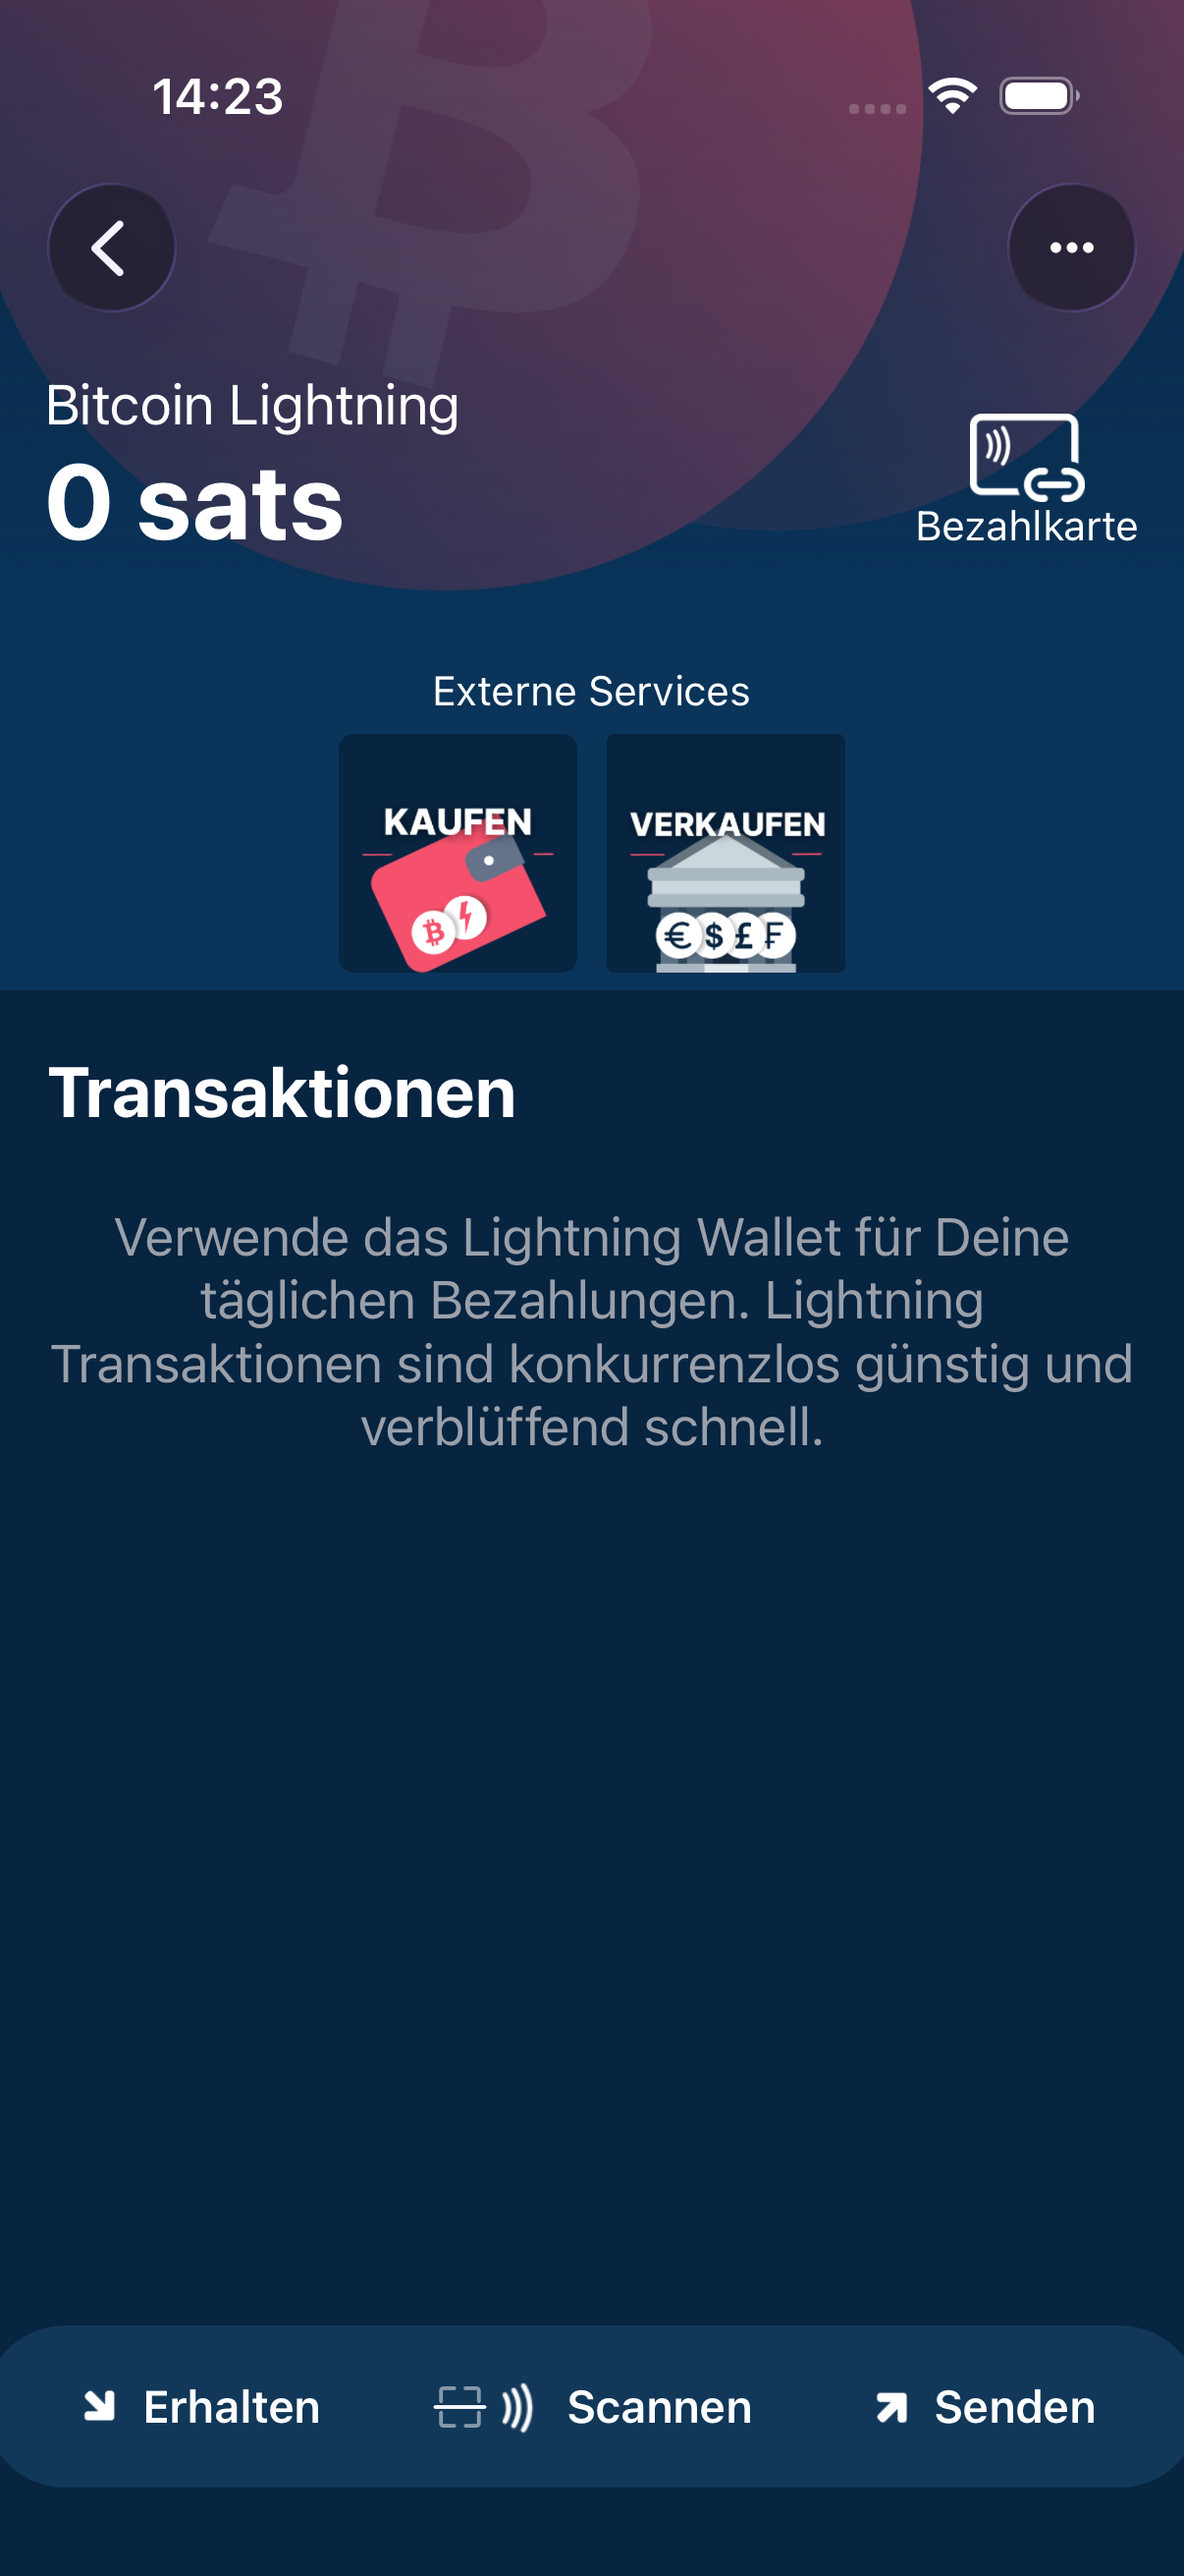
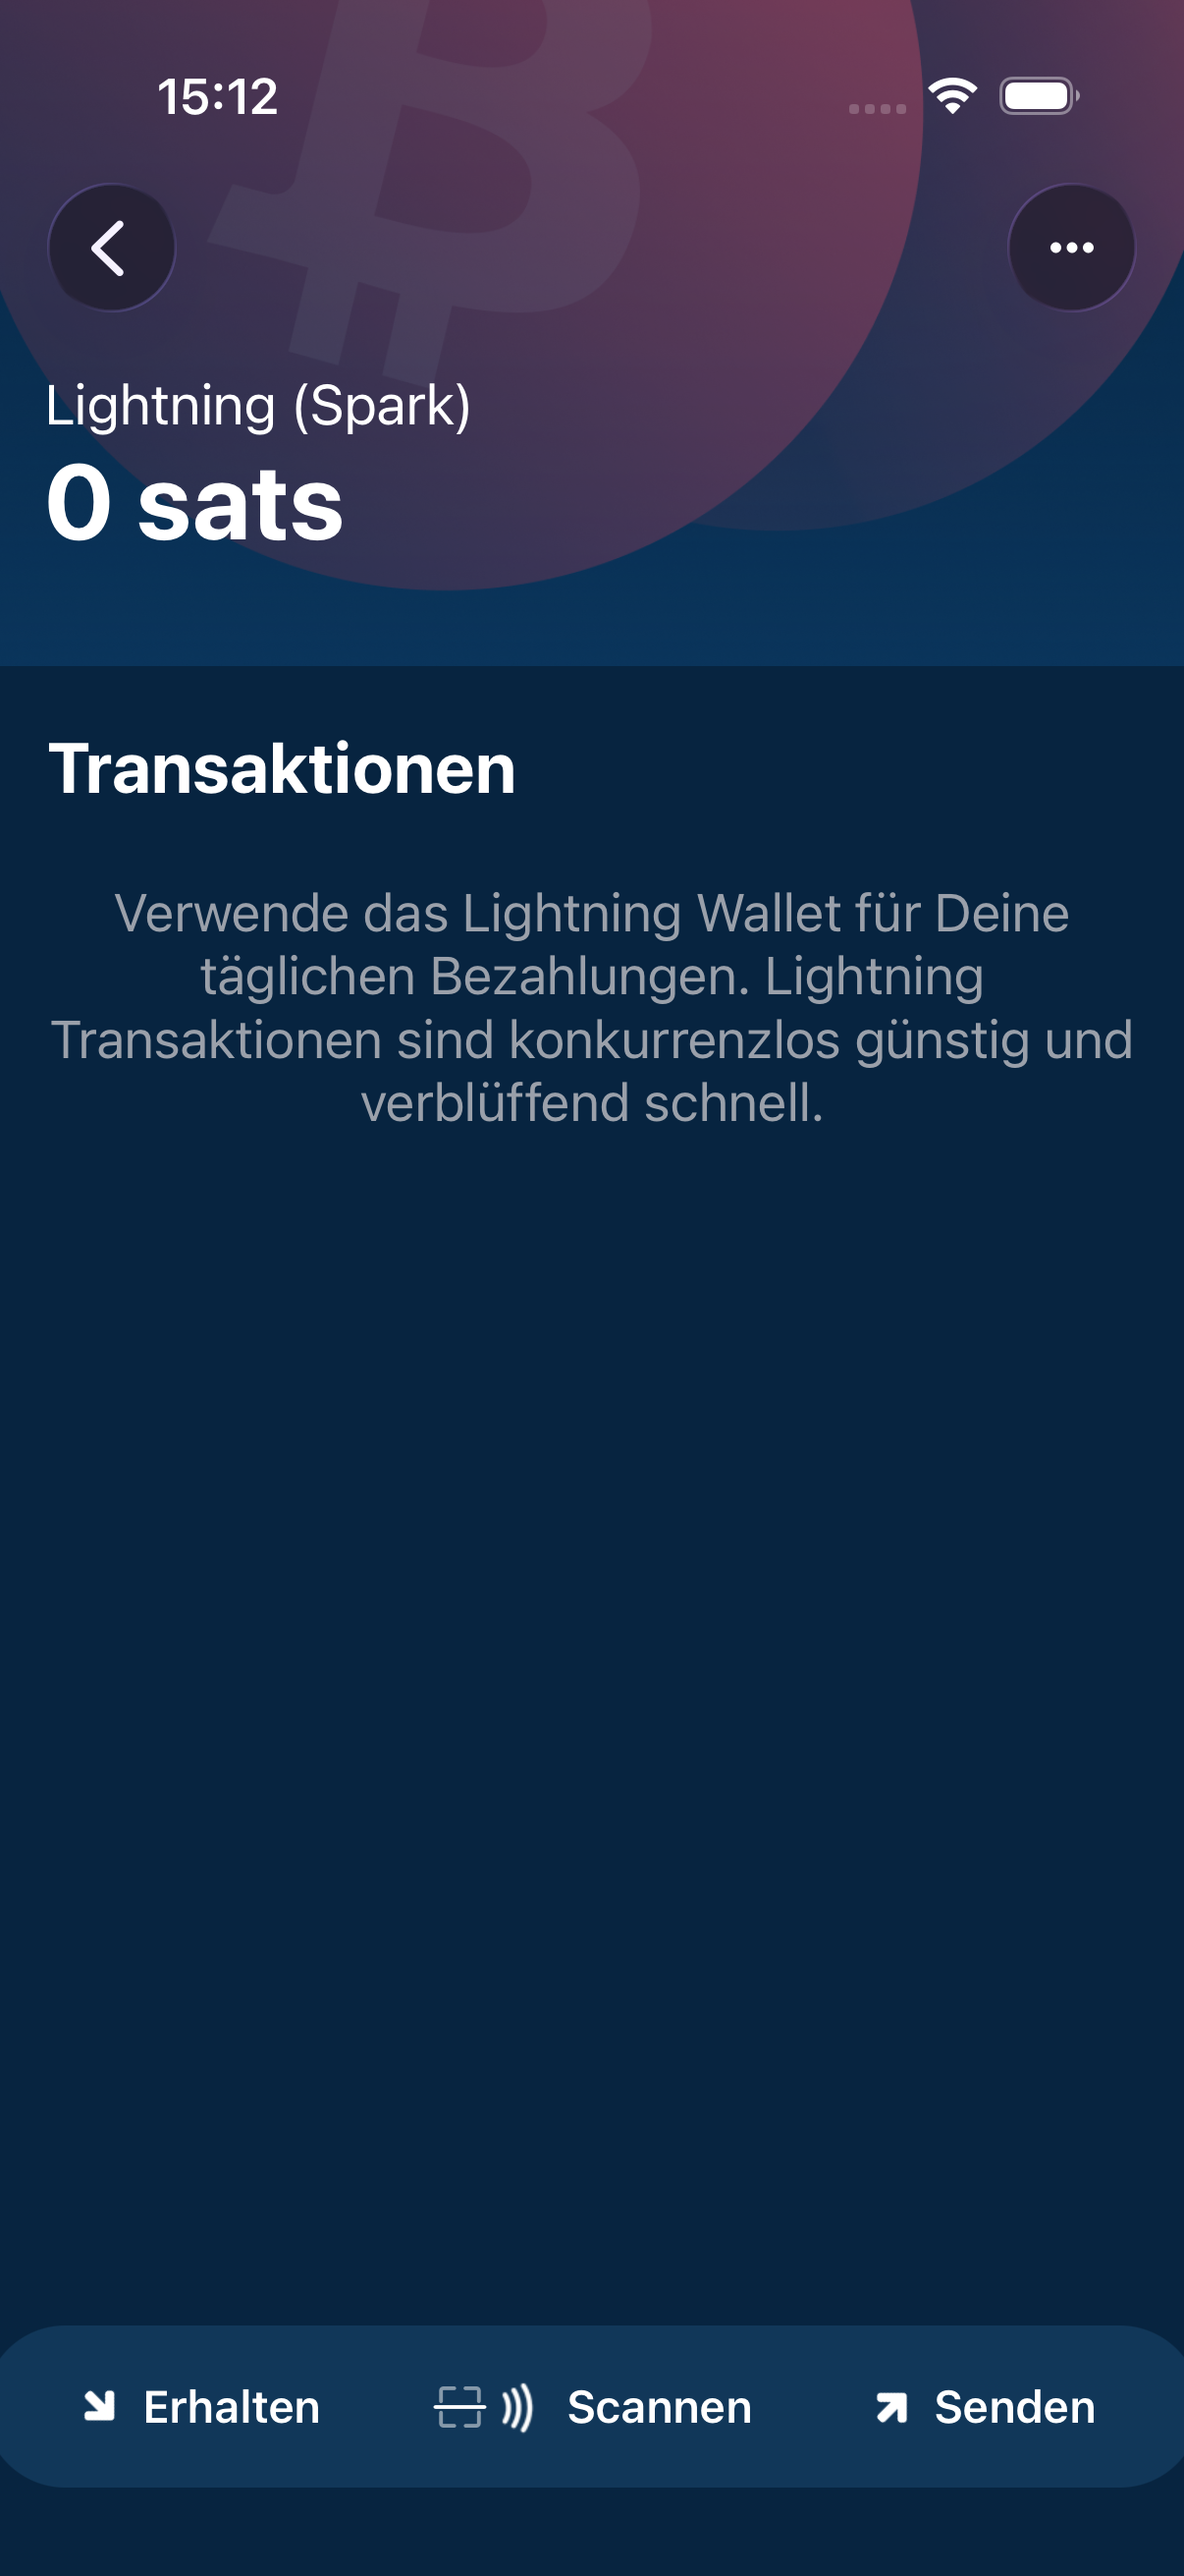
DOC: bring the handbook onto the one-tap Lightning flow
Seven of the 41 screenshots could no longer be produced. The Lightning row no
longer opens a provider screen, so 06b-wallet-lightning stopped at the wait for
lightning.space and wrote nothing, and _setup-lightning created its wallet the
same way — which took 13-lightning-wallet, 14-lightning-rechnung and
15-lightning-einstellungen with it. AddLightning is now reachable only from
settings, and only with the CHF asset, so an LNDHub Lightning wallet cannot be
created in a fresh install at all.

The four dead flows are gone. 06b now shows the entry point: the row with its
add button, before anything happens. 08b-lightning-spark replaces the three
Lightning chapter images with the wallet a new user actually gets — overview,
wallet screen, and an invoice for an amount rather than a standing address.
The provider screenshots and the Lightning settings shot are removed; both
showed screens no customer reaches any more.

The customer-facing text lives in content/{de,en,fr,it}.json, not in the
metadata, so the chapter descriptions and captions are corrected there in all
four languages. The README figures and the QR statement are corrected with them.

The redaction gate keeps its allowlist and gains exactly one entry for the new
invoice, with the expected payload type. Its test now pins both directions, so
removing the check fails rather than passes.

diff --git a/tests/unit/handbook-content-gate.test.js b/tests/unit/handbook-content-gate.test.js
@@ -99,6 +99,42 @@ describe('unit - handbook content gate', () => {
       assert.strictEqual(problems.length, 1);
       assert.match(problems[0], /pointless QR allowlist entry/);
     });
+
+    it('accepts a bolt11 invoice only in the Spark receive screenshot and rejects other payloads there', function () {
+      // Both production entries must be declared, or the other one reports stale
+      // and this case would no longer isolate the invoice rule.
+      const receive = 'screenshots/04-empfangen-senden/01-erhalten.png';
+      const invoiceShot = 'screenshots/08-lightning/03-rechnung-erstellen.png';
+      const address = 'bc1qw508d6qejxtdg4y5r3zarvary0c5xw7kv8f3t4';
+      const invoice =
[1 lines of base64/hex data omitted]
+      const published = new Set([receive, invoiceShot]);
+
+      assert.deepStrictEqual(
+        gate.qrProblems(
+          new Map([
+            [receive, address],
+            [invoiceShot, invoice],
+          ]),
+          published,
+          gate.QR_ALLOWLIST,
+        ),
+        [],
+      );
+
+      const wrong = gate.qrProblems(
+        new Map([
+          [receive, address],
+          [invoiceShot, address],
+        ]),
+        published,
+        gate.QR_ALLOWLIST,
+      );
+      assert.strictEqual(wrong.length, 1);
+      assert.match(wrong[0], /does not match what the allowlist permits/);
+      assert.match(wrong[0], /08-lightning\/03-rechnung-erstellen\.png/);
+      assert.ok(!wrong[0].includes(address), 'the payload must not be echoed');
+    });
   });
 
   describe('seed phrase detection', () => {
@@ -309,8 +345,10 @@ describe('unit - handbook content gate', () => {
     const os = require('os');
     const { spawnSync } = require('child_process');
     const SCRIPT = path.resolve(__dirname, '../../scripts/handbook/content-gate.js');
-    const ALLOWED = Object.keys(gate.QR_ALLOWLIST)[0];
+    const ALLOWED = Object.keys(gate.QR_ALLOWLIST);
     const ADDRESS = 'bitcoin:bc1qw508d6qejxtdg4y5r3zarvary0c5xw7kv8f3t4';
+    const INVOICE =
[1 lines of base64/hex data omitted]
 
     let tmp;
 
@@ -323,17 +361,18 @@ describe('unit - handbook content gate', () => {
     function fixture({ extraOnDisk = [], text = 'Guthaben senden und empfangen ', qrBody, ocrBody } = {}) {
       const root = fs.mkdtempSync(path.join(tmp, 'gate-'));
       const bin = fs.mkdtempSync(path.join(tmp, 'bin-'));
-      const declared = [ALLOWED, 'screenshots/plain.png'];
+      const declared = [...ALLOWED, 'screenshots/plain.png'];
       for (const rel of [...declared, ...extraOnDisk]) {
         fs.mkdirSync(path.join(root, path.dirname(rel)), { recursive: true });
         fs.writeFileSync(path.join(root, rel), '');
       }
       fs.writeFileSync(path.join(root, 'manifest.json'), JSON.stringify({ artifacts: declared.map(p => ({ outputPath: p })) }));
-      // Only the allowlisted screen carries a QR; everything else exits 4.
+      // Each allowlisted screen carries the payload its entry permits; everything else exits 4.
       stub(
         bin,
         'zbarimg',
-        qrBody || `case "$*" in *--version*) echo "zbarimg 0.23";; *01-erhalten.png*) echo '${ADDRESS}';; *) exit 4;; esac`,
+        qrBody ||
+          `case "$*" in *--version*) echo "zbarimg 0.23";; *01-erhalten.png*) echo '${ADDRESS}';; *03-rechnung-erstellen.png*) echo '${INVOICE}';; *) exit 4;; esac`,
       );
       stub(
         bin,
@@ -366,7 +405,7 @@ describe('unit - handbook content gate', () => {
     it('exits 0 on a clean payload', function () {
       const r = runScript(fixture());
       assert.strictEqual(r.status, 0, `${r.stdout}\n${r.stderr}`);
-      assert.match(r.stdout, /scanned 2 published PNGs/);
+      assert.match(r.stdout, /scanned 3 published PNGs/);
     });
 
     it('exits non-zero when an image ships without being declared', function () {
@@ -380,7 +419,7 @@ describe('unit - handbook content gate', () => {
       // passed those as clean, and nothing but this catch holds the difference.
       const r = runScript(
         fixture({
-          qrBody: `case "$*" in *--version*) echo "zbarimg 0.23";; *plain.png*) exit 1;; *01-erhalten.png*) echo '${ADDRESS}';; *) exit 4;; esac`,
+          qrBody: `case "$*" in *--version*) echo "zbarimg 0.23";; *plain.png*) exit 1;; *01-erhalten.png*) echo '${ADDRESS}';; *03-rechnung-erstellen.png*) echo '${INVOICE}';; *) exit 4;; esac`,
         }),
       );
       assert.notStrictEqual(r.status, 0, r.stdout);

diff --git a/scripts/handbook/content-gate.js b/scripts/handbook/content-gate.js
@@ -80,6 +80,17 @@ const QR_ALLOWLIST = {
     // screenshot without an amount, or widen this with a shape for the
     // parameters, not with `.*`.
   },
+  'screenshots/08-lightning/03-rechnung-erstellen.png': {
+    // Spark receive screen with an amount: the QR is a BOLT11 invoice, not a
+    // Lightning address. Without an amount that screen shows the Breez address
+    // instead — that payload must not pass here, or the handbook would publish
+    // a permanent receive address under an invoice caption.
+    // Mainnet only (`lnbc`), optional amount, bech32 body. No `lightning:`
+    // prefix: the screen encodes the raw invoice. No testnet (`lntb`). No `m`
+    // flag: a second QR on the next line must fail, same as the address entry.
+    payload: /^lnbc(?:[1-9][0-9]*[munp]?)?1[02-9ac-hj-np-z]{50,}$/,
+    reason: 'Lightning invoice on the Spark receive screen — the QR is the subject of the screenshot',
+  },
 };
 
 /**

diff --git a/docs/handbook/README.md b/docs/handbook/README.md
@@ -50,7 +50,7 @@ Ausgabe pro Build:
 
 Guards (Build bricht ab bei Verletzung):
 
-- **Floor:** mindestens `MIN_SCREENSHOTS` (35) PNGs (aktuell 41 committiert;
+- **Floor:** mindestens `MIN_SCREENSHOTS` (35) PNGs (aktuell 38 committiert;
   Boden bei Bestandszuwachs anheben)
 - **Floor:** mindestens `MIN_DOCS` (8) Markdown-Dokumente (nach Ausschlussregeln)
 - **Floor:** mindestens `MIN_STORE_FIELDS` (25) Store-Textfelder — der Boden
@@ -314,15 +314,15 @@ maestro test scripts/handbook/screenshots/01-onboarding.yaml
 Jedes committete PNG hat genau einen erzeugenden `takeScreenshot:`-Schritt, und
 kein Flow zielt auf einen Namen, den es im Satz nicht gibt — nachpruefbar, indem
 man alle `takeScreenshot: shots/<pfad>` gegen `docs/handbook/screenshots/**.png`
-abgleicht (Soll: 41 Treffer, 0 verwaist, 0 ohne Flow). Wer den Satz erweitert,
+abgleicht (Soll: 38 Treffer, 0 verwaist, 0 ohne Flow). Wer den Satz erweitert,
 haelt diese Zuordnung mit; sonst ist die Wiederholbarkeit nur behauptet.
 
 `_setup.yaml` ist der gemeinsame Vorlauf fuer die meisten Flows: frischer
 App-Start, Wallet anlegen und den Mitteilungs-Dialog einmal abraeumen. Die
 Wallet-Anlage fuehrt direkt auf die Uebersicht — die Lightning-Wallet ist opt-in
-und wird ueber „Hinzufuegen" in der Lightning-Zeile angelegt; genau das macht
-`_setup-lightning.yaml`, das die Lightning-Flows einbinden. Zwei
-Flows starten selbst mit `launchApp: clearState` und ohne `_setup*`:
+und wird ueber „Hinzufuegen" in der Lightning-Zeile angelegt. Den Einstieg
+zeigt `06b-wallet-lightning.yaml`, das Ergebnis `08b-lightning-spark.yaml`.
+Zwei Flows starten selbst mit `launchApp: clearState` und ohne `_setup.yaml`:
 `01-onboarding.yaml` und `16-import.yaml` (sie brauchen den frischen
 Onboarding-/Import-Zustand). Der Simulator-Build ohne Code-Signing hat keine
 Keychain-Entitlements; die Wallet ueberlebt einen App-Neustart deshalb nicht.
@@ -362,27 +362,27 @@ Voraussetzung: `zbarimg` (zbar-tools) und `tesseract` auf dem PATH sowie
 `marked` und `bip39` unter `_handbook-deps/` — beide in EINEM `npm install`,
 sonst raeumt der zweite Aufruf den ersten weg.
 
-Erlaubt ist genau ein Treffer: die On-Chain-Empfangsadresse in
-`04-empfangen-senden/01-erhalten.png` — sie ist der Inhalt dieses Screens und eine
-einzelne Wegwerf-Adresse. Jeder weitere Treffer ist ein Fund.
+Erlaubt sind genau zwei Treffer: die On-Chain-Empfangsadresse in
+`04-empfangen-senden/01-erhalten.png` und die Lightning-Rechnung in
+`08-lightning/03-rechnung-erstellen.png`. Jeder weitere Treffer ist ein Fund.
 
 Zusaetzlich geschwaerzt, weil sie Anmeldematerial bzw. dauerhaft gueltige
 Schluessel zeigen: das Feld „DFX-Adressen-Besitznachweis" in
-`03-einstellungen/03-wallet-einstellungen.png` und `19-lightning-wallet.png` (eine
+`03-einstellungen/03-wallet-einstellungen.png` (eine
 Signatur ueber eine **statische Nachricht ohne Nonce**, siehe
 `api/dfx/hooks/auth.hook.ts` — laeuft nie ab), der Account-`zpub` in
-`02-wallet/07-xpub.png`, der Cosigner-QR in `07-multi-device/01-erstellung-qr.png`
-und die Lightning-Adresse in `08-lightning/03-rechnung-erstellen.png`.
+`02-wallet/07-xpub.png` und der Cosigner-QR in
+`07-multi-device/01-erstellung-qr.png`.
 
-Zwei der vier Klassen prueft `content-gate.js` inzwischen automatisch mit:
+Zwei der drei Klassen prueft `content-gate.js` inzwischen automatisch mit:
 erweiterte Schluessel (`xpub`/`zpub`/`xprv` und Verwandte) fuehren zum Abbruch,
 ebenso eine Folge von `SEED_RUN_LIMIT` (derzeit fuenf) aufeinanderfolgenden
 BIP39-Woertern. Der aktuelle Satz kommt auf hoechstens drei; die
 ungeschwaerzten Originale hatten zwoelf.
 
-**Signatur und Lightning-Adresse bleiben Handarbeit** — dafuer hat das Gate
-keine Regel, und es kann auch keine haben: beide sind fuer sich genommen
-unauffaelliger Text. Beim Neuaufnehmen dieser zwei Screens also weiter selbst
+**Signatur bleibt Handarbeit** — dafuer hat das Gate
+keine Regel, und es kann auch keine haben: sie ist fuer sich genommen
+unauffaelliger Text. Beim Neuaufnehmen dieses Screens also weiter selbst
 schwaerzen.
 
 ## Abdeckung — was fehlt und warum
@@ -390,11 +390,11 @@ schwaerzen.
 Das Issue verlangt „jeden Screen, in jeder Variante, in jedem Szenario". Dieser
 Stand erfuellt das **nicht**. Die Zahlen, damit die Luecke nachpruefbar ist statt
 ungefaehr: `navigation/` registriert **109** Routen, davon 17 reine
-Stack-Wrapper (Endung `Root`), bleiben **92 echte Screens**. Die **41**
-committeten PNGs bilden davon **33 verschiedene Screens** ab — sechs Screens
+Stack-Wrapper (Endung `Root`), bleiben **92 echte Screens**. Die **38**
+committeten PNGs bilden davon **32 verschiedene Screens** ab — fünf Screens
 sind mehrfach abgebildet, weil sie in mehreren Varianten vorkommen:
-`WalletTransactions` und `AddLightning` (je 3 Bilder), `ReceiveDetails`,
-`WalletAsset`, `WalletDetails` und `Tools` (je 2). **59 Screens fehlen ganz.**
+`WalletTransactions` (3 Bilder), `ReceiveDetails`,
+`WalletAsset`, `WalletDetails` und `Tools` (je 2). **60 Screens fehlen ganz.**
 
 Die Luecke ist nicht zufaellig, sondern hat drei benennbare Ursachen:
 
